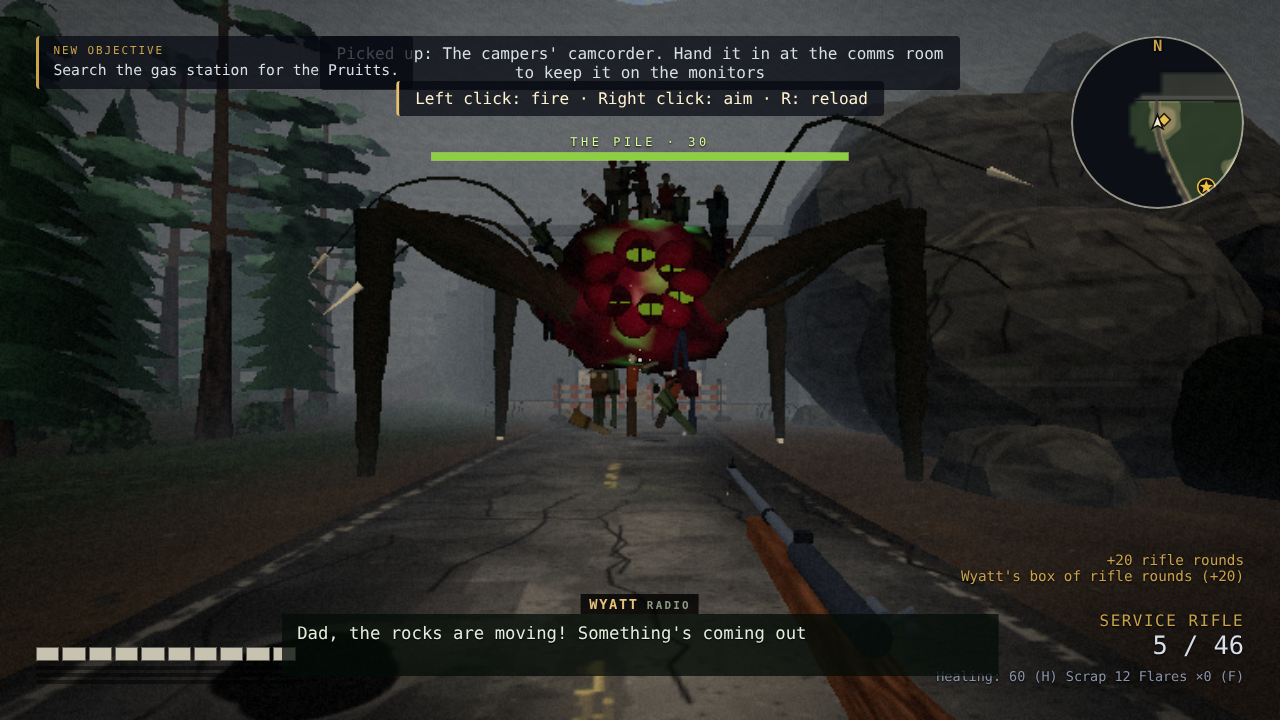
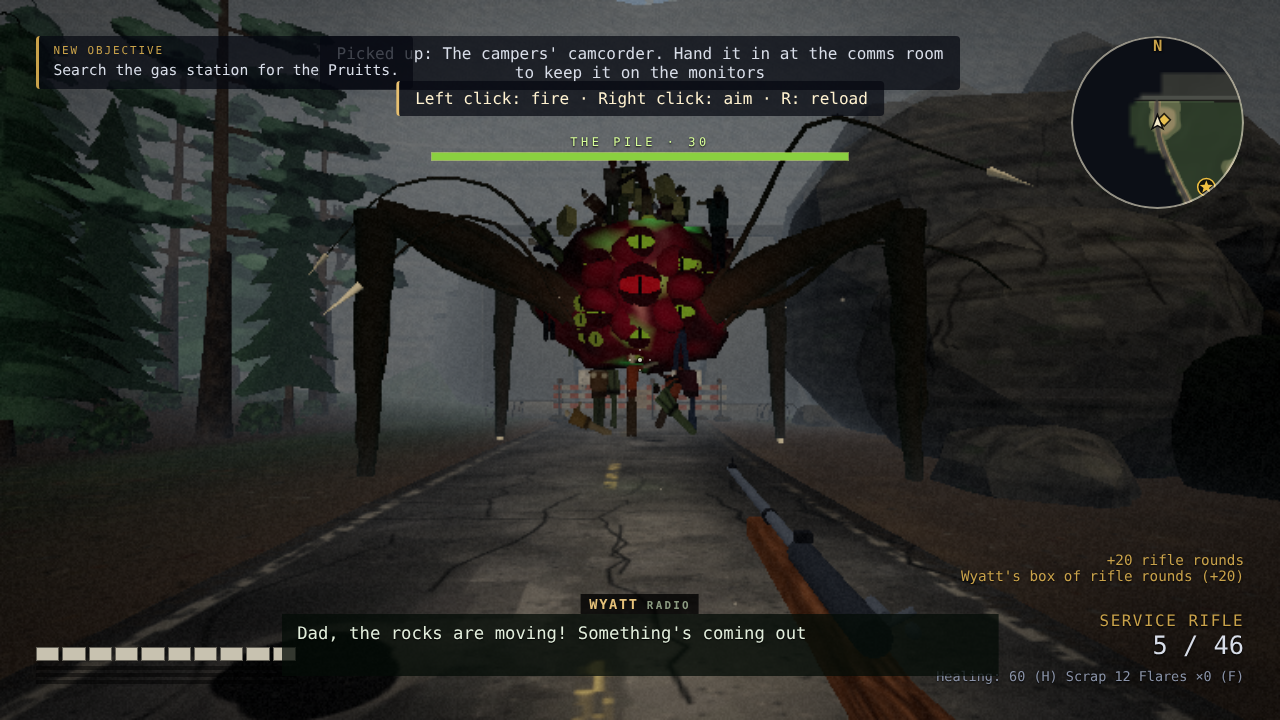
The Pile: a red heart eye at the centre (a weak spot worth double), small dim eyes over its face, army packs among the bodies (Aaron's concept art)
Claude-Session: https://claude.ai/code/session_01KUWXq4RTz4AJY3QcKBz5Co

diff --git a/src/render/PileRenderer.js b/src/render/PileRenderer.js
@@ -130,6 +130,35 @@ export class PileRenderer {
     const ballMat = new THREE.MeshBasicMaterial({ color: look.eye });
     this.irisBright = new THREE.Color(look.iris);
     this.irisDim = new THREE.Color(look.irisDim ?? look.iris);
+    this.heartDim = new THREE.Color(look.heartDim ?? 0x4a0a0a);
+    this.heartBright = new THREE.Color(look.heartBright ?? 0xff2a20);
+    this.heartCore = new THREE.Color(look.heartCore ?? 0xffa080);
+    // Nov 25 (the concept art: dozens of eyes over its face): small ones round the cluster, dim, blinking, never the
+    // weak spots (they never glow). One instanced mesh of balls, one of slits.
+    const n = look.dimEyes ?? 0;
+    this.dimBalls = new THREE.InstancedMesh(new THREE.SphereGeometry(1, 8, 6), new THREE.MeshBasicMaterial({ color: look.dimEye ?? 0x56621a }), Math.max(1, n));
+    this.dimSlits = new THREE.InstancedMesh(new THREE.PlaneGeometry(0.22, 1.1).translate(0, 0, 1.01), new THREE.MeshBasicMaterial({ color: look.pupil }), Math.max(1, n));
+    for (const m of [this.dimBalls, this.dimSlits]) {
+      m.instanceMatrix.setUsage(THREE.DynamicDrawUsage);
+      m.frustumCulled = false;
+      m.count = 0;
+      this.group.add(m);
+    }
+    // Where they sit: [angle off facing Tom, height x radius, size], spread over its face round the cluster (golden).
+    this.dimSpots = [];
+    for (let i = 0; this.dimSpots.length < n && i < 400; i++) {
+      const da = Math.sin(i * 2.399963) * 1.25 * Math.sqrt(((i % 37) + 1) / 37);
+      const h = 0.3 + ((i * 0.618034) % 1) * 1.08;
+      if (Math.abs(da) < 0.62 && h > 0.3 && h < 1.32) continue; // (the cluster's)
+      this.dimSpots.push([da, h, 0.1 + ((i * 0.37) % 1) * 0.09]);
+    }
+    // Army packs among the bodies on top (the concept art: their kit still on them).
+    this.packs = new THREE.InstancedMesh(new THREE.BoxGeometry(0.42, 0.5, 0.26), new THREE.MeshLambertMaterial({ color: look.pack ?? 0x46462a }), 12);
+    this.packs.instanceMatrix.setUsage(THREE.DynamicDrawUsage);
+    this.packs.frustumCulled = false;
+    this.packs.castShadow = true;
+    this.packs.count = 0;
+    this.group.add(this.packs);
     const pupilMat = new THREE.MeshBasicMaterial({ color: look.pupil });
     const lidMat = new THREE.MeshBasicMaterial({ color: look.flesh[1] });
     const iris = new THREE.CircleGeometry(0.42, 18);
@@ -185,6 +214,9 @@ export class PileRenderer {
     this.nSprites = 0;
     this.segs.count = 0;
     this.hooks.count = 0;
+    this.packs.count = 0;
+    this.dimBalls.count = 0;
+    this.dimSlits.count = 0;
     // Its death: the meat swells, bursts and sags away to nothing (dark and suggestive: Aaron).
     const dying = p.phase === 'dead' && p.deadT < p.cfg.fx.deathSeconds;
     this.group.visible = live || dying;
@@ -202,6 +234,9 @@ export class PileRenderer {
     for (let i = this.nSprites; i < this.fakes.length; i++) this.fakes[i].active = false;
     this.segs.instanceMatrix.needsUpdate = true;
     this.hooks.instanceMatrix.needsUpdate = true;
+    this.packs.instanceMatrix.needsUpdate = true;
+    this.dimBalls.instanceMatrix.needsUpdate = true;
+    this.dimSlits.instanceMatrix.needsUpdate = true;
     const cam = this.ctx.camera?.() ?? { x: p.x ?? 0, z: p.z ?? 0 };
     this.sprites.update(this.fakes, cam, Infinity);
   }
@@ -289,7 +324,17 @@ export class PileRenderer {
       const bob = Math.sin(p.t * 2.3 + i) * 0.1;
       const y = coreY + Math.sin(e) * coreR * 0.95 - 0.5 + bob;
       const frame = LIMP[(i + Math.floor(p.t * 1.5 + i * 0.37)) % LIMP.length];
-      this.put(cx + Math.sin(ang) * ring, y, cz + Math.cos(ang) * ring, i, frame, ang + Math.PI * 0.5 * dir + p.t * dir * 0.5);
+      const bx = cx + Math.sin(ang) * ring;
+      const bz = cz + Math.cos(ang) * ring;
+      this.put(bx, y, bz, i, frame, ang + Math.PI * 0.5 * dir + p.t * dir * 0.5);
+      // A pack on some of the ones up top.
+      if (e > 0.55 && i % 2 === 0 && this.packs.count < 12) {
+        this.v.set(bx - Math.sin(ang) * 0.15, y + 1.05, bz - Math.cos(ang) * 0.15);
+        this.q.setFromEuler(new THREE.Euler(0.3 * dir, ang + i, 0.2 * dir));
+        this.s.set(1, 1, 1);
+        this.m4.compose(this.v, this.q, this.s);
+        this.packs.setMatrixAt(this.packs.count++, this.m4);
+      }
     }
     // The fling: a body held up over the top on a tendril as it winds up.
     const top = { x: cx, y: g - sunk + r * 1.3 + lift, z: cz };
@@ -356,17 +401,42 @@ export class PileRenderer {
       e.visible = o > 0.02;
       if (!e.visible) return;
       const s = spots[i];
-      const size = p.cfg.seams.hitRadius * (0.95 + 0.15 * bright); // (spaced so the cluster's eyes don't overlap)
+      const heart = p.seams[i]?.heart;
+      const size = (heart ? p.cfg.seams.heart.hitRadius : p.cfg.seams.hitRadius) * (0.95 + 0.15 * bright); // (spaced so they don't overlap)
       e.position.set(s.x, s.y, s.z);
       e.scale.setScalar(size);
       e.lookAt(pp.x, (pp.y ?? g) + 1.6, pp.z);
-      e.userData.orb.color.copy(this.irisDim).lerp(this.irisBright, 0.2 + 0.8 * bright);
+      if (heart) e.userData.orb.color.copy(this.heartDim).lerp(this.heartBright, 0.25 + 0.75 * bright);
+      else e.userData.orb.color.copy(this.irisDim).lerp(this.irisBright, 0.2 + 0.8 * bright);
+      if (heart) e.userData.iris.color.copy(this.heartCore);
       e.userData.iris.visible = bright > 0.3; // its hot centre, when it's open wide
       // Lids part as it opens; a twitch every so often.
       const twitch = Math.sin(p.t * 7 + i * 2) > 0.97 ? 0.3 : 0;
       e.userData.top.rotation.x = -(o - twitch) * 1.25;
       e.userData.bottom.rotation.x = Math.PI + (o - twitch) * 1.05;
     });
+    // The small eyes, dim, each blinking now and then.
+    if (rise > 0.6) {
+      const R0 = coreR * 1.0;
+      const eye = new THREE.Vector3();
+      const look3 = new THREE.Vector3(pp.x, (pp.y ?? g) + 1.6, pp.z);
+      const mtx = new THREE.Matrix4();
+      for (let i = 0; i < this.dimSpots.length; i++) {
+        const [da, h, size] = this.dimSpots[i];
+        const a2 = toTom + da;
+        const up = Math.max(-0.95, Math.min(0.95, (h - 0.85) / 0.68));
+        const k2 = Math.cos(da * 0.6) * Math.sqrt(1 - up * up); // on its round, as the cluster's are (Pile.eyeSpots)
+        eye.set(cx + Math.sin(a2) * R0 * k2, g - sunk + p.raise + r * h, cz + Math.cos(a2) * R0 * k2);
+        const blink = Math.sin(p.t * 0.9 + i * 2.7) > 0.96 ? 0.1 : 1;
+        mtx.lookAt(eye, look3, this.up);
+        this.q.setFromRotationMatrix(mtx);
+        this.q.multiply(new THREE.Quaternion().setFromAxisAngle(this.up, Math.PI)); // (lookAt points -z at him: turn its face round)
+        this.s.set(size, size * blink, size);
+        this.m4.compose(eye, this.q, this.s);
+        this.dimBalls.setMatrixAt(this.dimBalls.count++, this.m4);
+        this.dimSlits.setMatrixAt(this.dimSlits.count++, this.m4);
+      }
+    }
     // ---- the tendrils ----
     const base = (ang, h) => ({ x: cx + Math.sin(ang) * coreR * 0.9, y: coreY + (h - 0.85) * r, z: cz + Math.cos(ang) * coreR * 0.9 });
     this.drawLegs(cx, cz, g, coreY, coreR, toTom, rise, dt);

diff --git a/src/config.js b/src/config.js
@@ -5961,7 +5961,10 @@ export const config = {
     // after `every` seconds) for `window` seconds. Shot: magic off, shedShare of its bodies thrown off, a blast.
     charge: { beep: [0.6, 0.12], first: 7, every: 22, afterReclaimed: 4, window: 7, hitRadius: 0.42, magic: 20, shedShare: 0.35, blast: { radius: 4.5, damage: 120, playerDamage: 35 } },
     // Nov 25 (the artist's rendition): six eyes clustered on its face, [angle off facing Tom (radians), height x radius].
-    seams: { seconds: 5, hitRadius: 0.3, magicPerDamage: 0.06, count: 6, cluster: [[-0.32, 0.92], [0, 1.02], [0.3, 0.95], [-0.2, 0.68], [0.1, 0.62], [0.38, 0.72]] }, // after a blast: the glowing seams (about 10 magic for a full window of rifle fire)
+    // Nov 25 (Aaron's concept art, again: a big red eye in the middle, "its heart is vulnerable"): a seventh, its
+    // heart, at the centre of the ring: bigger, red, and worth heart.magicScale times as much.
+    seams: { seconds: 5, hitRadius: 0.3, magicPerDamage: 0.06, count: 7, heart: { index: 6, hitRadius: 0.42, magicScale: 2 },
+      cluster: [[-0.42, 0.98], [0, 1.14], [0.42, 0.98], [-0.42, 0.62], [0, 0.46], [0.42, 0.62], [0, 0.8]] }, // after a blast: the glowing seams (about 10 magic for a full window of rifle fire)
     dynamite: { shed: 4, magic: 6 }, // a stick (or any blast) going off against it
     shed: { distance: [3, 8], spread: 2.2, flight: 0.8, gravity: 18 },
     tendrils: { max: 2, range: 22, reach: 16, drag: 5, points: 4, hitRadius: 0.32 },
@@ -5976,7 +5979,7 @@ export const config = {
     // left behind before it steps; stepSeconds; thick: the legs' width at the hip.
     legs: { count: 4, raise: 1.5, reach: 1.35, stride: 2.2, stepSeconds: 0.32, stepHeight: 0.7, thick: 0.5 },
     look: { spin: 0.6, flesh: [0x1a0406, 0x34080e, 0x4a1016, 0x260a10], vein: 0x5ae860, veinGlow: 0.45, coreLight: 0x6ac860, coreIntensity: 0.7, coreReach: 8,
-      sinew: 0x24120e, sinewGlow: 0x061408, bone: 0xb8ac8a, eye: 0x9a8c56, iris: 0xa8e818, irisDim: 0x3a4a10, irisCore: 0xd8ff50, lobe: 0x3e0a10, pupil: 0x060404, idle: 4, eyeTease: 1.5, coreScale: 0.8, eyeShut: 0.35, warn: 0xd8ff60, charge: 0x3e4a2a, chargeLight: 0xff3020 },
+      sinew: 0x24120e, sinewGlow: 0x061408, bone: 0xb8ac8a, eye: 0x9a8c56, iris: 0xa8e818, irisDim: 0x3a4a10, irisCore: 0xd8ff50, heartDim: 0x4a0a0a, heartBright: 0xff2a20, heartCore: 0xffa080, dimEyes: 18, dimEye: 0x56621a, pack: 0x46462a, lobe: 0x3e0a10, pupil: 0x060404, idle: 4, eyeTease: 1.5, coreScale: 0.8, eyeShut: 0.35, warn: 0xd8ff60, charge: 0x3e4a2a, chargeLight: 0xff3020 },
   },
   familyPlot: {
     sweepAt: 50, // its sweep (sweep.plot) plays once as Tom first comes this near the tree (Nov 25, Aaron: further out; was 30, 12 m inside its edge)

diff --git a/src/ai/Pile.js b/src/ai/Pile.js
@@ -62,7 +62,11 @@ export class Pile {
     };
     this.charge = { alive: true, targetable: true, hitRadius: cfg.charge.hitRadius, height: 0.7, headBottom: 99, headRadius: 0, facing: 0, x: 0, y: 0, z: 0, takeHit: () => this.blast() };
     // Its eyes (the weak spots once a blast has torn it open): Nov 25, Aaron's artist's rendition: a cluster on its face.
-    this.seams = Array.from({ length: cfg.seams.count ?? 3 }, (_, i) => ({ i, alive: true, targetable: true, hitRadius: cfg.seams.hitRadius, height: 0.6, headBottom: 99, headRadius: 0, facing: 0, x: 0, y: 0, z: 0, weakSpot: null, takeHit: (amount) => this.hitSeam(amount) }));
+    this.seams = Array.from({ length: cfg.seams.count ?? 3 }, (_, i) => {
+      const heart = cfg.seams.heart?.index === i;
+      const hr = heart ? cfg.seams.heart.hitRadius : cfg.seams.hitRadius;
+      return { i, heart, alive: true, targetable: true, hitRadius: hr, height: hr * 2, headBottom: 99, headRadius: 0, facing: 0, x: 0, y: 0, z: 0, weakSpot: null, takeHit: (amount) => this.hitSeam(amount, heart) };
+    });
     this.unsub = [
       this.bus?.on?.('explosion', (e) => this.onExplosion(e)),
       // Nov 25 (Aaron: "a cutscene to show the pile emerging from the ground"): pile.emerge's beats.
@@ -460,10 +464,10 @@ export class Pile {
   }
 
   // A seam (after a blast): the magic itself.
-  hitSeam(amount) {
+  hitSeam(amount, heart = false) {
     if (this.phase !== 'fight' || this.cycle !== 'reel') return false;
     this.flash = 0.12;
-    this.hurtMagic(amount * this.cfg.seams.magicPerDamage);
+    this.hurtMagic(amount * this.cfg.seams.magicPerDamage * (heart ? this.cfg.seams.heart?.magicScale ?? 1 : 1));
     return false;
   }
 
@@ -788,7 +792,9 @@ export class Pile {
     for (let i = 0; i < this.seams.length; i++) {
       const [da, h] = cl[i % cl.length];
       const a = face + da;
-      const k = Math.cos(da * 0.6); // a little further round, a little further back
+      // On its round: further round is further back, and higher up is further in (its meat's squashed sphere).
+      const up = Math.max(-0.95, Math.min(0.95, (h - 0.85) / 0.68));
+      const k = Math.cos(da * 0.6) * Math.sqrt(1 - up * up);
       out[i] ??= { x: 0, y: 0, z: 0 };
       out[i].x = this.x + Math.sin(a) * R * k;
       out[i].z = this.z + Math.cos(a) * R * k;
@@ -826,7 +832,7 @@ export class Pile {
       this.seams.forEach((s, i) => {
         s.x = spots[i].x;
         s.z = spots[i].z;
-        s.y = spots[i].y - 0.3; // (a target's y is its foot: the eye's middle is 0.3 up)
+        s.y = spots[i].y - s.hitRadius; // (a target's y is its foot: the eye's middle is its radius up)
         T.push(s);
       });
     }

diff --git a/tests/pile.test.js b/tests/pile.test.js
@@ -365,3 +365,22 @@ describe("the Pile's cutscene", () => {
     expect(r.pile.risen).toBe(1);
   });
 });
+
+// Nov 25 (Aaron's concept art: a big red eye in the middle, "its heart is vulnerable").
+describe("the Pile's heart", () => {
+  it('is one of its eyes, bigger, and hurts its magic twice as much', () => {
+    const { pile, run } = rig();
+    run(C.emergeSeconds + C.charge.first + 0.2);
+    pile.charge.takeHit(50);
+    run(0.05);
+    const heart = pile.targets.find((t) => t.heart);
+    const eye = pile.targets.find((t) => pile.seams.includes(t) && !t.heart);
+    expect(heart.hitRadius).toBeGreaterThan(eye.hitRadius);
+    const m0 = pile.magic;
+    eye.takeHit(100);
+    const byEye = m0 - pile.magic;
+    const m1 = pile.magic;
+    heart.takeHit(100);
+    expect(m1 - pile.magic).toBeCloseTo(byEye * C.seams.heart.magicScale);
+  });
+});
